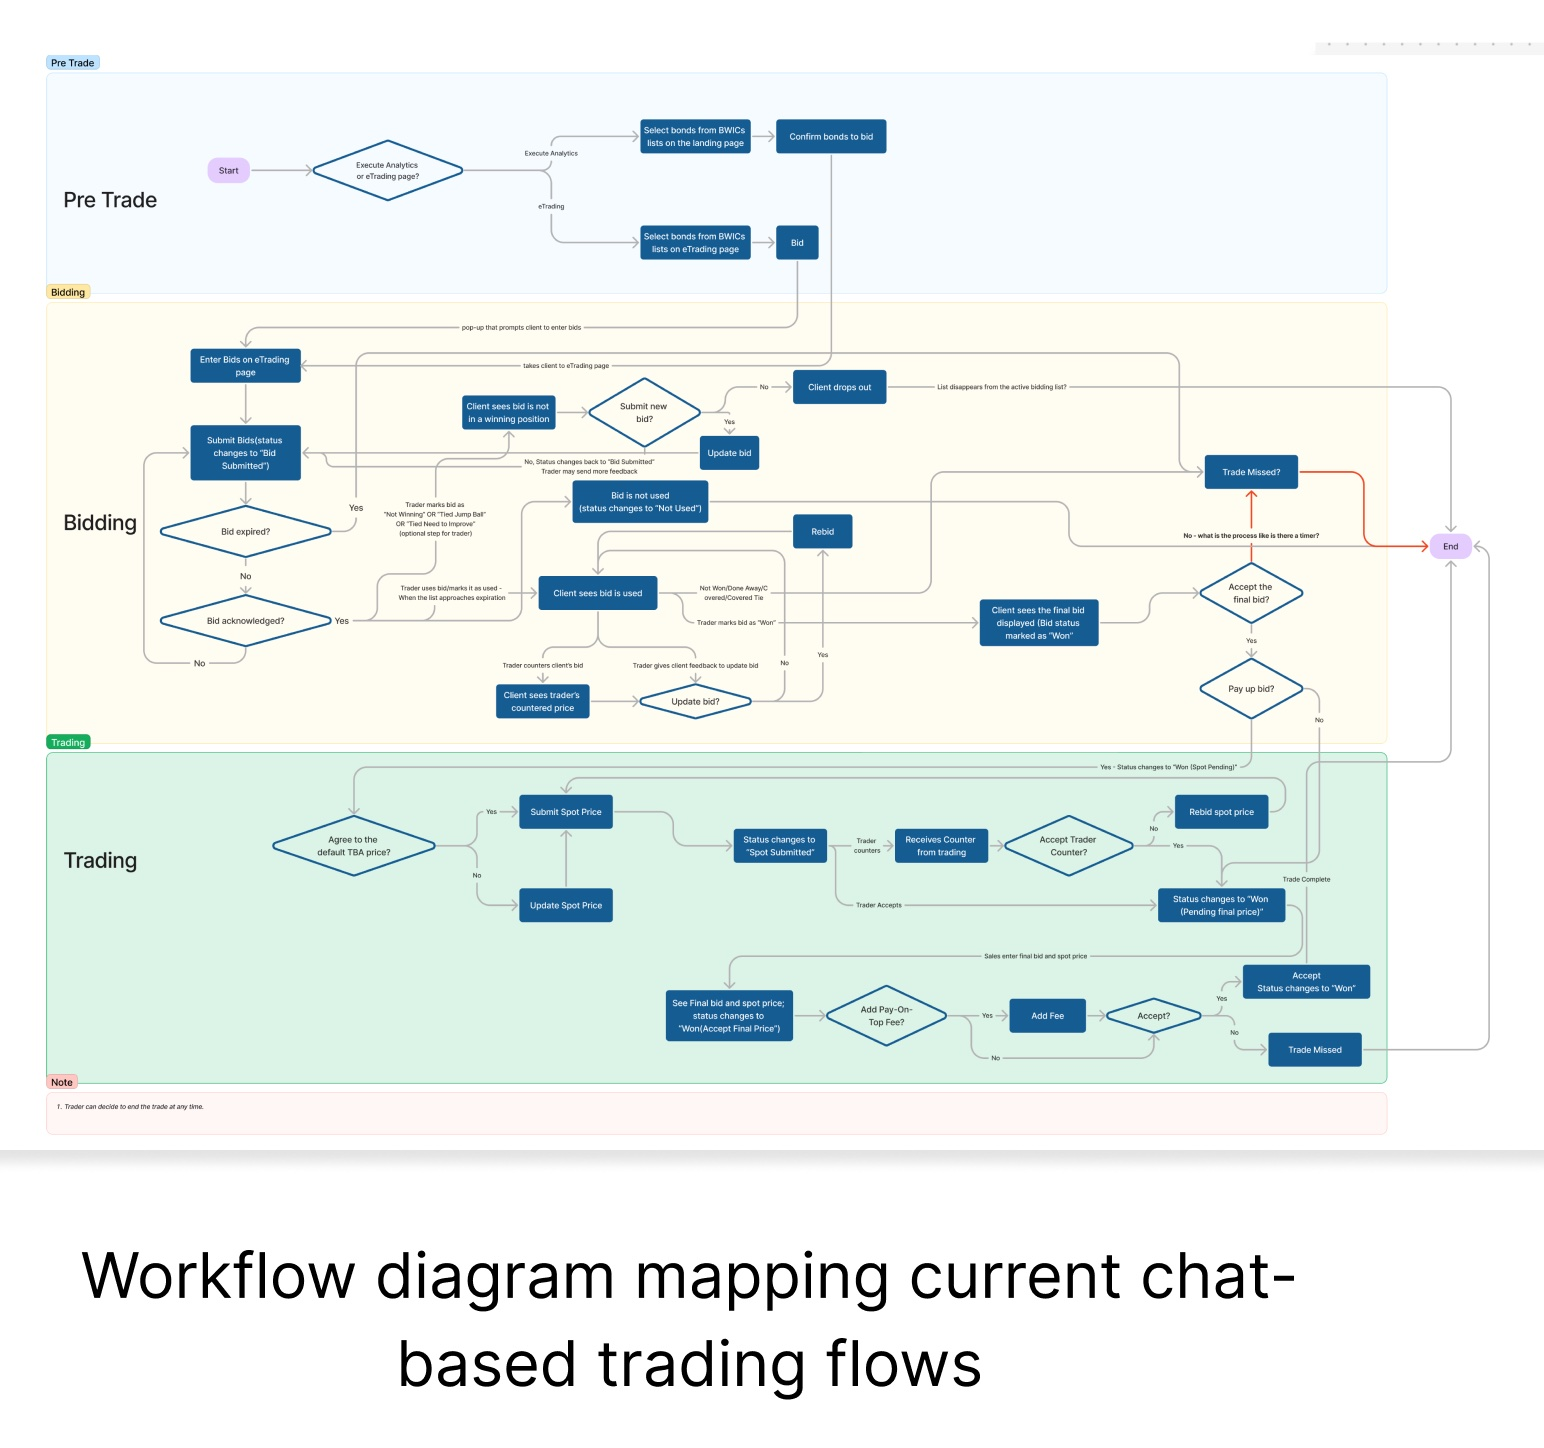
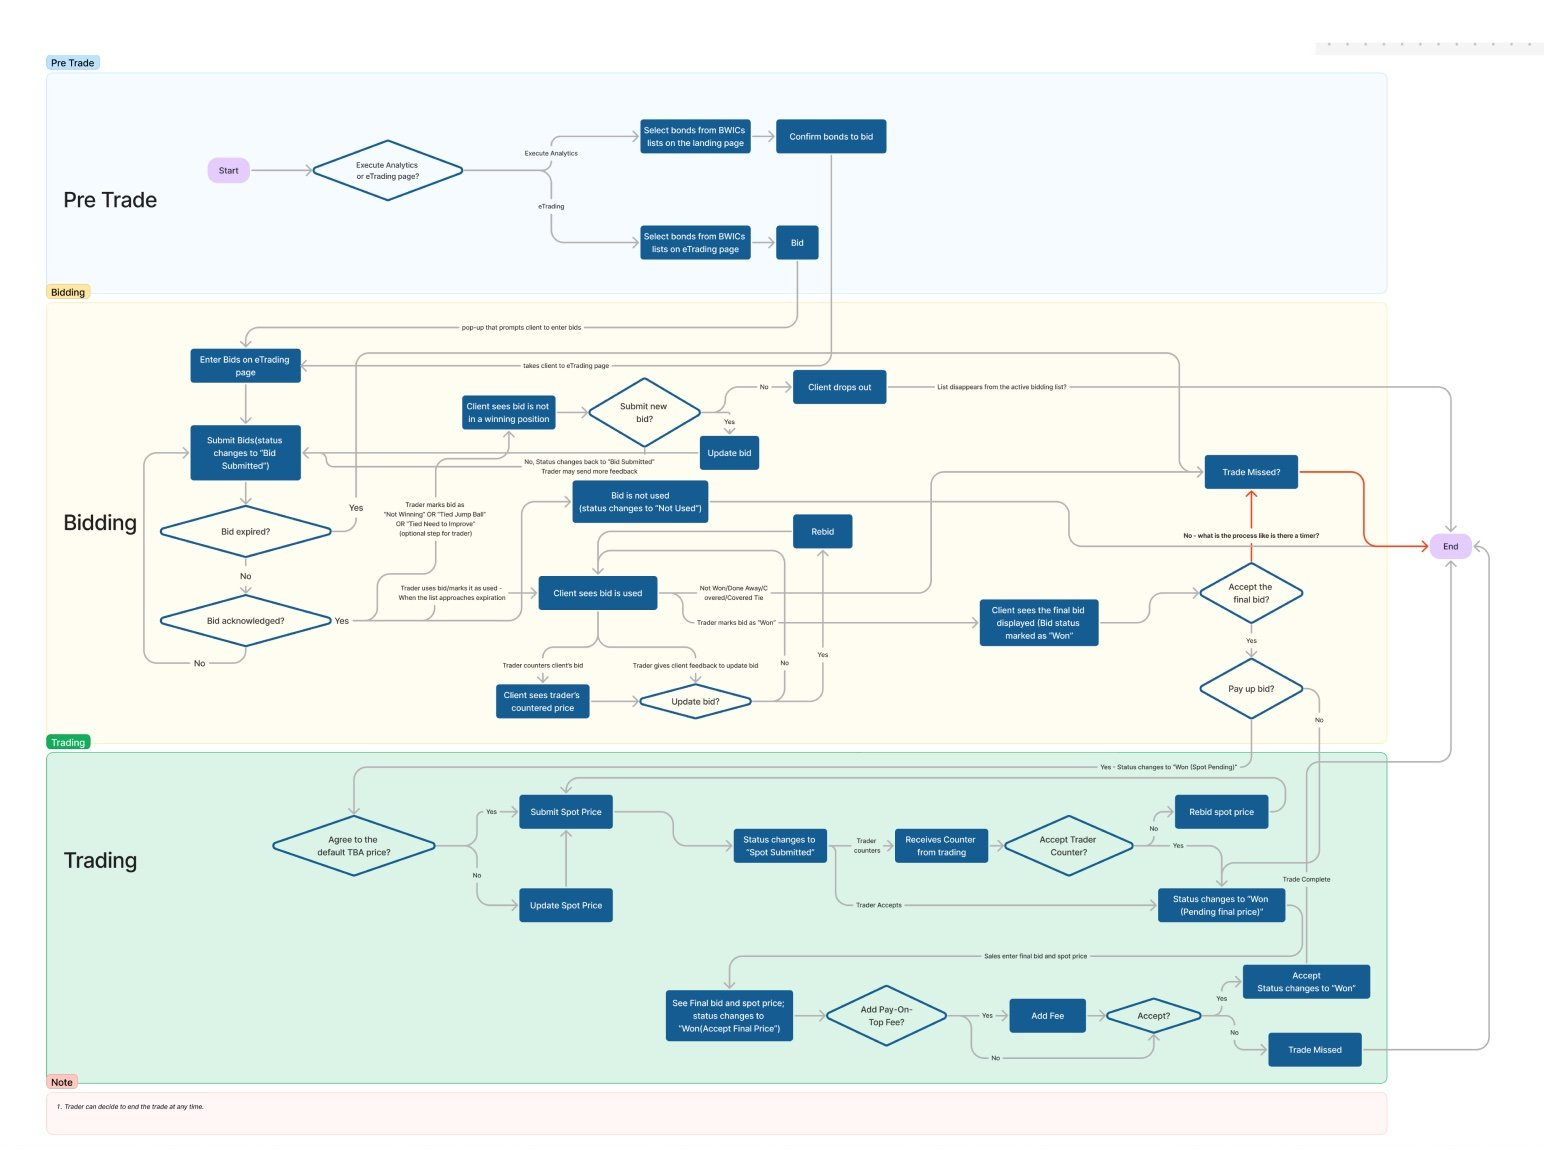
Add files via upload

diff --git a/case-study-2.html b/case-study-2.html
@@ -391,13 +391,13 @@
     <div style="display:grid;grid-template-columns:1fr 1fr;gap:1rem;margin:1.5rem 0;">
       <div>
         <figure style="margin:0;">
-          <img src="cs2-structuring-horizontal.png" alt="Complex fly swap in horizontal layout" style="width:100%;border:1px solid var(--border);border-radius:4px;box-shadow:0 2px 16px rgba(0,0,0,0.06);display:block;" />
+          <img src="cs2-structuring-vertical.png" alt="Horizontal layout" style="width:100%;border:1px solid var(--border);border-radius:4px;box-shadow:0 2px 16px rgba(0,0,0,0.06);display:block;" />
         </figure>
         <div style="font-size:0.72rem;color:var(--text-muted);margin-top:0.5rem;line-height:1.5;"><strong style="color:var(--text);">Horizontal layout</strong>: multi-leg fly swap with all legs visible side by side. Per-leg pricing, directions, and stream details are comparable at a glance.</div>
       </div>
       <div>
         <figure style="margin:0;">
-          <img src="cs2-structuring-vertical.png" alt="Standard IRS in vertical layout" style="width:100%;border:1px solid var(--border);border-radius:4px;box-shadow:0 2px 16px rgba(0,0,0,0.06);display:block;" />
+          <img src="cs2-structuring-horizontal.png" alt="Vertical layout" style="width:100%;border:1px solid var(--border);border-radius:4px;box-shadow:0 2px 16px rgba(0,0,0,0.06);display:block;" />
         </figure>
         <div style="font-size:0.72rem;color:var(--text-muted);margin-top:0.5rem;line-height:1.5;"><strong style="color:var(--text);">Vertical layout</strong>: standard IRS with compact fields. Space-efficient for trades where most parameters are pre-populated and minimal edits are needed.</div>
       </div>